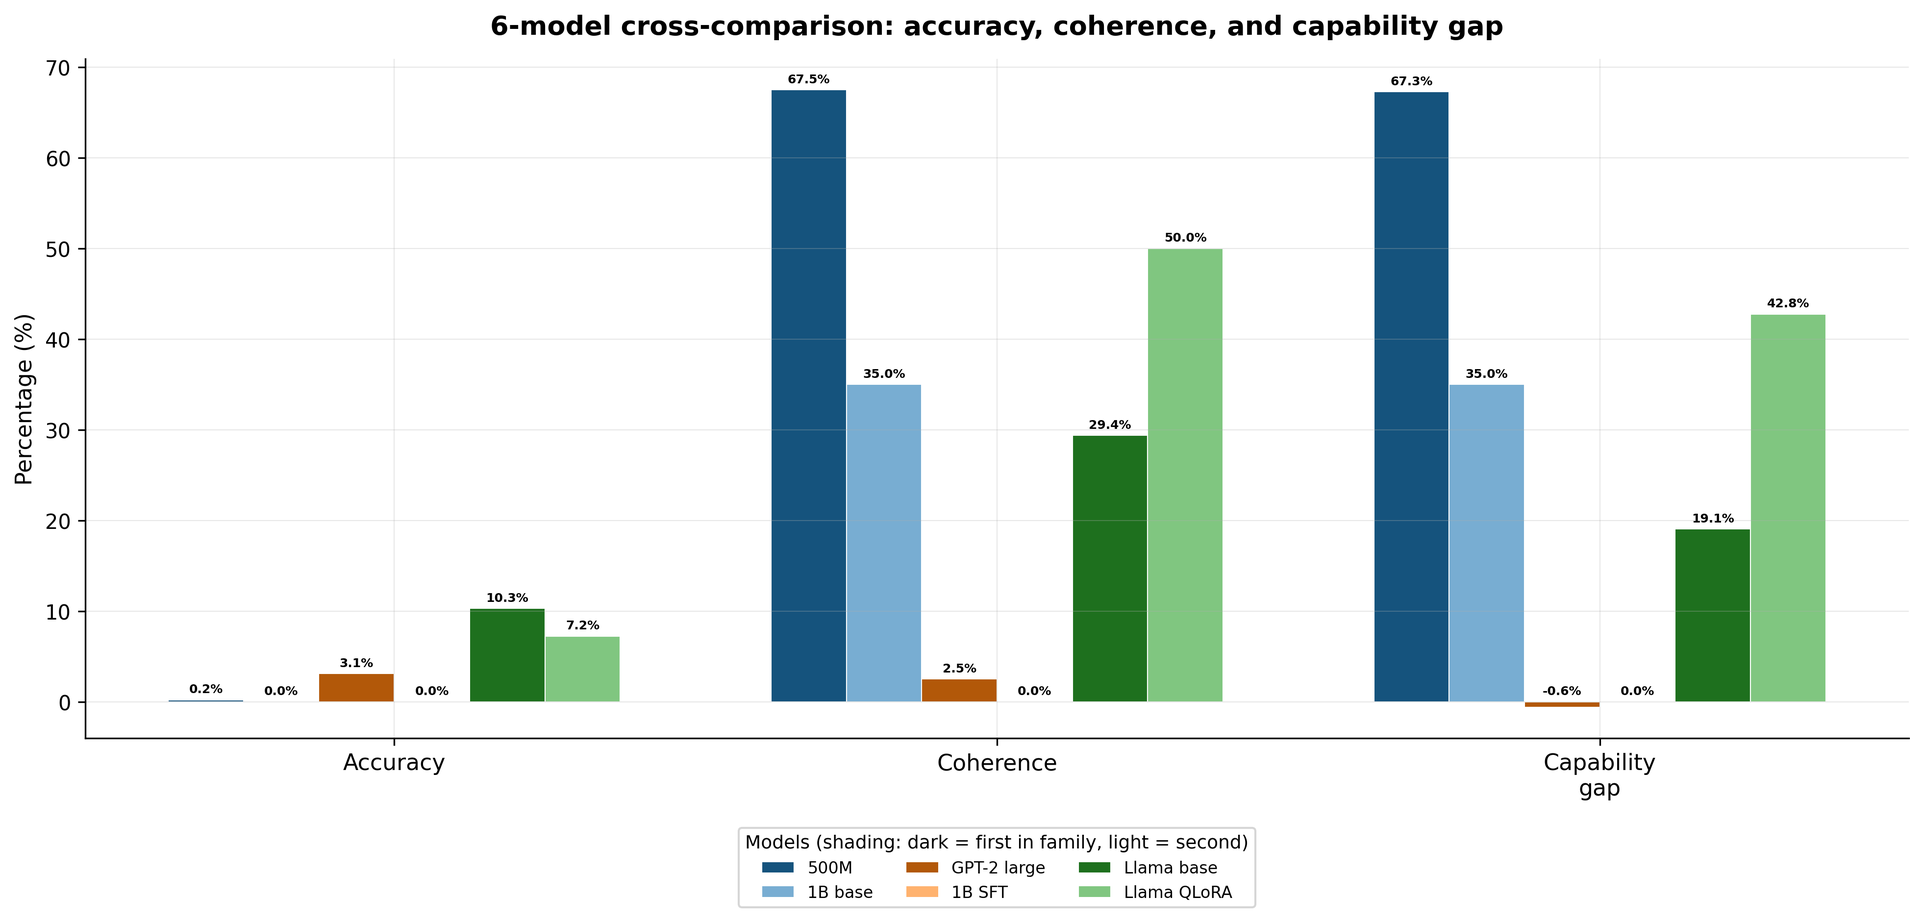
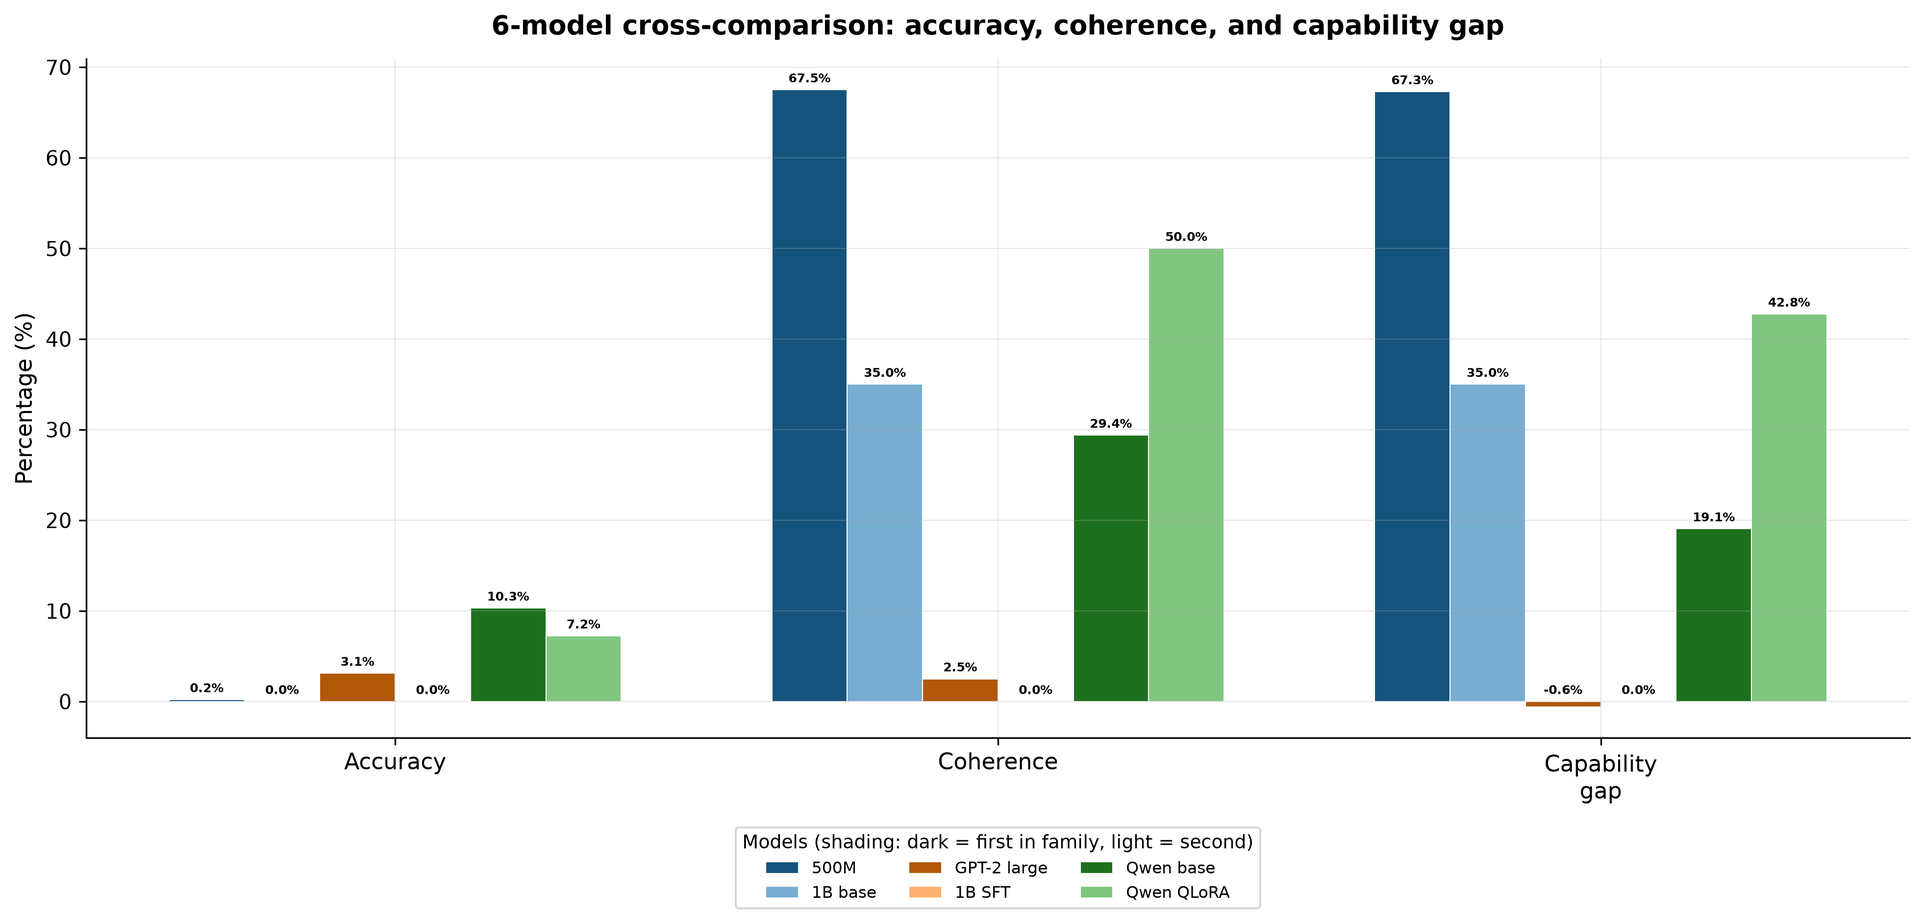
Fix remaining Llama labels, figure, and data-scarcity wording
Regenerate the 6-model figure with Qwen labels, align Table 9 and the
experimental-findings report with the Qwen substitution and Fine-tuned
family label, soften leftover data-scarcity claims, clarify the
fabrication-rate range, and add a legacy-key note to the JSON report.

diff --git a/qlora/compare_all.py b/qlora/compare_all.py
@@ -763,6 +763,11 @@ def build_json_output(
             "model_short_labels": {c["key"]: c["short_label"] for c in model_configs},
             "model_families": {c["key"]: c["family"] for c in model_configs},
             "quantization": "Q8_0",
+            "note": (
+                "Display names refer to Qwen 2.5 1.5B Instruct (substituted for Llama 3.2 1B "
+                "Instruct, which was gated). Keys and result directories keep the legacy "
+                "llama32_* names."
+            ),
         },
         "accuracy": accuracy,
         "taxonomy_distribution": taxonomy,

diff --git a/docs/v2-research-paper.md b/docs/v2-research-paper.md
@@ -23,7 +23,7 @@ The past five years have seen an accelerating trend toward domain-specific langu
 
 We ask a different question. What happens when we dramatically reduce both the breadth and volume of training data, focusing on a single disease domain with a corpus orders of magnitude smaller than what these models consume? Specifically, we train a 516M-parameter decoder-only transformer from scratch on 143M tokens of curated ALS research literature. With roughly 128.5M training tokens, this is about 0.25 tokens per parameter, about 80 times below the Chinchilla reference ratio of approximately 20 tokens per parameter ([Hoffmann et al., 2022](https://arxiv.org/abs/2203.15556)). This is a regime where conventional scaling laws suggest the model is unlikely to acquire meaningful factual knowledge.
 
-This is by design. Our research question is not whether a small model trained on narrow data can compete with larger systems. It cannot, and our results confirm this decisively. Instead, we investigate what such a model does learn, how it fails, and what the failure modes reveal about the relationship between training data volume, language-modeling loss, and factual accuracy. The answer turns out to be more nuanced than simple failure: our model achieves a Well-fit classification with a validation loss relative gap of just +0.42%, indicating that it has learned generalizable statistical patterns of ALS research language, yet it attains only 0.21% mean factual accuracy on a domain-specific benchmark. This disconnect between language-modeling competence and factual knowledge acquisition is itself an informative finding.
+This is by design. Our research question is not whether a small model trained on narrow data can compete with larger systems. It cannot, and our results are consistent with that expectation. Instead, we investigate what such a model does learn, how it fails, and what the failure modes reveal about the relationship between training data volume, language-modeling loss, and factual accuracy. The answer turns out to be more nuanced than simple failure: our model achieves a Well-fit classification with a validation loss relative gap of just +0.42%, indicating that it has learned generalizable statistical patterns of ALS research language, yet it attains only 0.21% mean factual accuracy on a domain-specific benchmark. This disconnect between language-modeling competence and factual knowledge acquisition is itself an informative finding.
 
 We emphasize that this project is a machine-learning research and education artifact, not a medical information tool. The model should never be used for clinical decision-making, patient education, or any application where factual accuracy matters. The hallucination evaluation framework we develop exists to quantify the model's unreliability, not to demonstrate its utility. Any outputs from the model or from the RAG comparison system should be treated as experimental results, not as medical information.
 
@@ -57,7 +57,7 @@ Table 1 summarizes the key characteristics of these models alongside ALS-LM.
 | BioGPT   | 347M       | 15M PubMed abstracts               | GPT-2 medium    | 2022 | State-of-art on PubMedQA, relation extraction    |
 | GatorTron | 8.9B      | 90B+ words (82B clinical)          | BERT-like       | 2022 | Best clinical NLI on MedNLI                      |
 | BioMedLM | 2.7B       | PubMed abstracts + full text       | GPT-2 style     | 2024 | Competitive with larger models on medical QA     |
-| ALS-LM   | 516M       | 143M tokens (ALS only)             | GPT-2 (Pre-LN)  | 2026 | 0.21% accuracy; demonstrates data deficit impact |
+| ALS-LM   | 516M       | 143M tokens (ALS only)             | GPT-2 (Pre-LN)  | 2026 | 0.21% accuracy; consistent with a data deficit |
 | ALS-LM (fine-tuned) | 774M | 146M tokens (ALS fine-tuning) | GPT-2 large | 2026 | 3.12% accuracy; 97.5% degenerate output          |
 
 The scale difference is immediately visible. Even BioBERT, the smallest model in the table, trained on a corpus approximately 125 times larger than ours (18 billion words vs. 143 million tokens). BioGPT, the closest architectural comparison at 347M parameters, used approximately 15 million abstracts that we estimate contain 3-5 billion tokens, placing it 20-35x above our data volume. Unlike these models, which benefit from broad biomedical coverage across many diseases and subdomains, our work deliberately investigates the data-starved regime: a single-disease corpus where the available literature is fundamentally insufficient for the model size. Our results confirm that this data deficit is the dominant factor in the model's near-zero factual accuracy, even as it achieves healthy language-modeling loss.
@@ -115,7 +115,7 @@ Figure 1 shows the end-to-end data pipeline from source collection through token
 - **Deduplication.** We implemented a two-level deduplication approach. At the document level, we used MinHash Locality-Sensitive Hashing (LSH) with 128 permutations and a Jaccard similarity threshold of 0.85, that uses word-level 5-gram shingles. We chose word 5-grams over character shingles because medical text shares high vocabulary overlap (many documents use the same technical terms), and word n-grams reduce false positive duplicate matches in this setting. At the paragraph level, we applied SHA-256 hashing on paragraphs of at least 50 words, removing exact-duplicate text blocks across the surviving corpus. Documents that lost all qualifying paragraphs were rejected. After the train/validation split, we ran a cross-set leakage check by using MinHash LSH with a lower Jaccard threshold of 0.7 to catch near-duplicate documents that might have been placed in both sets.
 - **Source caps.** To prevent any single source type from dominating the corpus distribution, we enforced post-deduplication caps of 10% for patient narratives and 15% for Wikipedia-sourced content.
 - **Train/validation split.** We split the cleaned, deduplicated corpus into training and validation sets by using a 90/10 ratio, stratified by source category, with a fixed random seed of 42. This stratification ensures that both sets contain proportional representation from PubMed Central, ClinicalTrials.gov, and educational sources.
-- **Final corpus size.** The tokenized corpus contains 142,939,320 total tokens: 128,495,047 training tokens and 14,444,273 validation tokens. At 516M model parameters, this yields 0.25 tokens per parameter, placing us 80 times below the Chinchilla-optimal ratio of approximately 20 tokens per parameter ([Hoffmann et al., 2022](https://arxiv.org/abs/2203.15556)).
+- **Final corpus size.** The tokenized corpus contains 142,939,320 total tokens: 128,495,047 training tokens and 14,444,273 validation tokens. At 516M model parameters, this yields 0.25 tokens per parameter, placing the 516M run about 80 times below the Chinchilla reference ratio of approximately 20 tokens per parameter ([Hoffmann et al., 2022](https://arxiv.org/abs/2203.15556)).
 
 ### 3.2 Tokenizer
 
@@ -568,14 +568,14 @@ This work makes three contributions. First, we provide a complete, reproducible,
 
 Table 9 presents the complete comparison across all six models evaluated in this investigation.
 
-**Table 9.** Complete 6-model comparison on the 160-question ALS benchmark (Q8_0 quantization level). No model in the six-model comparison reaches the 14.3% that Llama 3.1 8B achieved without retrieval (a larger model evaluated in the separate RAG comparison). The highest of the six is unmodified Qwen 2.5 1.5B Instruct at 10.31%. The 1B SFT fabrication rate of 0.0% reflects that all 160 outputs were degenerate, so no entities could be checked.
+**Table 9.** Complete 6-model comparison on the 160-question ALS benchmark (Q8_0 quantization level). No model in the six-model comparison reaches the 14.3% that Llama 3.1 8B achieved without retrieval (a larger model evaluated in the separate RAG comparison). The highest of the six is unmodified Qwen 2.5 1.5B Instruct at 10.31%. The 1B SFT fabrication rate of 0.0% reflects that all 160 outputs were degenerate, so no entities could be checked (marked with an asterisk in the table).
 
 | Model              | Approach             | Accuracy | Degenerate rate | Fabrication rate |
 |--------------------|----------------------|:--------:|:---------------:|:----------------:|
 | 500M from-scratch  | From-scratch         |    0.21% |           32.5% |            66.4% |
-| GPT-2 large        | Pretrained fine-tune |    3.12% |           97.5% |            77.0% |
+| GPT-2 large        | Fine-tuned           |    3.12% |           97.5% |            77.0% |
 | 1B base            | From-scratch         |    0.00% |           65.0% |           100.0% |
-| 1B SFT             | From-scratch SFT     |    0.00% |          100.0% |             0.0% |
+| 1B SFT             | Fine-tuned           |    0.00% |          100.0% |            0.0%* |
 | Qwen 2.5 baseline  | Pretrained instruct  |   10.31% |           70.6% |            87.6% |
 | Qwen 2.5 QLoRA     | Pretrained QLoRA     |    7.24% |           50.0% |            81.0% |
 
@@ -589,7 +589,7 @@ The investigation was guided by four hypotheses, three defined in the project's 
 |------------|---------------------------------------|----------|--------------------------------------------------------------------|
 | H1         | Data quality improves accuracy        | Partial  | Corpus expanded to 153M tokens; still far below the reference ratio |
 | H2         | Parameter scaling improves knowledge  | Rejected | 1B: 0.00% vs 500M: 0.21%; consistent with data, not capacity       |
-| H3         | Instruction tuning surfaces knowledge | Rejected | 1B SFT: 160/160 degenerate; cannot format absent knowledge         |
+| H3         | Instruction tuning surfaces knowledge | Rejected | 1B SFT: 160/160 degenerate; no usable output to format         |
 | H4         | Pretrained domain adaptation          | Rejected | QLoRA: 7.24% vs 10.31% baseline; 970 pairs lowered accuracy         |
 
 The hypothesis verdicts are consistent with a data scarcity explanation from different angles, although none of the experiments isolates it. The partial verdict for H1 reflects that expanding the corpus from 32MB to 676MB improved data quality and coverage but did not move the needle on factual accuracy possibly because the expanded corpus (153M tokens) remains far below the threshold where knowledge acquisition begins. H2's rejection is particularly informative: doubling the model's capacity from 516M to 1.02B parameters while training on the same corpus produced no improvement (0.00% vs. 0.21%), which is consistent with the bottleneck being data rather than architecture. H3 and H4 together are consistent with instruction tuning and domain adaptation facing a similar constraint. When the base model lacks factual knowledge (H3, from-scratch 1B), instruction tuning produces degenerate output because there is no knowledge to surface. When the base model has some knowledge (H4, Qwen 2.5 1.5B Instruct at 10.31%), 970 domain-specific pairs did not improve accuracy under QLoRA and lowered it instead, suggesting that meaningful domain adaptation requires substantially more fine-tuning data than was available in this investigation.

diff --git a/reports/experimental-findings.md b/reports/experimental-findings.md
@@ -4,16 +4,18 @@ This document synthesizes the experimental results from ALS-LM-1 (v1.0.0 through
 
 ## 6-model comparison summary
 
-Six model variants were evaluated on the same 160-question ALS hallucination benchmark at Q8_0 quantization. The models span three approach families: from-scratch training, pre-trained fine-tuning, and pre-trained instruction tuning.
+Six model variants were evaluated on the same 160-question ALS hallucination benchmark at Q8_0 quantization. The models span three approach families: from-scratch training, fine-tuning, and pre-trained instruction tuning.
+
+*The 1B instruction-tuned model's 0.0% fabrication rate reflects that all 160 outputs were degenerate, so no entities could be checked. The original plan targeted Llama 3.2 1B Instruct, but gated access was not available, so Qwen 2.5 1.5B Instruct was substituted. Some result directories and JSON keys still use the `llama32_*` names.*
 
 | Model                          | Approach                | Accuracy | Coherence | Capability gap | Fabrication rate |
 |--------------------------------|-------------------------|----------|-----------|----------------|------------------|
 | ALS-LM 500M (from-scratch)    | From-scratch            |    0.21% |     67.5% |          67.3% |            66.4% |
 | ALS-LM 1B (from-scratch base) | From-scratch            |    0.00% |     35.0% |          35.0% |           100.0% |
-| GPT-2 large (fine-tuned)       | Pre-trained fine-tune   |    3.12% |      2.5% |          -0.6% |            77.0% |
-| ALS-LM 1B (instruction-tuned) | Pre-trained fine-tune   |    0.00% |      0.0% |           0.0% |             0.0% |
-| Llama 3.2 1B Instruct (base)  | Pre-trained instruct    |   10.31% |     29.4% |          19.1% |            87.6% |
-| Llama 3.2 1B QLoRA            | Pre-trained instruct    |    7.24% |     50.0% |          42.8% |            81.0% |
+| GPT-2 large (fine-tuned)       | Fine-tuned              |    3.12% |      2.5% |          -0.6% |            77.0% |
+| ALS-LM 1B (instruction-tuned) | Fine-tuned              |    0.00% |      0.0% |           0.0% |            0.0%* |
+| Qwen 2.5 1.5B Instruct (base) | Pre-trained instruct    |   10.31% |     29.4% |          19.1% |            87.6% |
+| Qwen 2.5 1.5B QLoRA           | Pre-trained instruct    |    7.24% |     50.0% |          42.8% |            81.0% |
 
 Full data: [6-model comparison report](qlora_comparison_report.md) and [qlora_comparison_report.json](qlora_comparison_report.json)
 
@@ -21,7 +23,7 @@ Full data: [6-model comparison report](qlora_comparison_report.md) and [qlora_co
 
 ### 1. Knowledge source is the primary factor
 
-The unmodified Llama 3.2 1B Instruct model achieved the highest accuracy (10.31%) without any ALS-specific training. Its pre-trained parametric knowledge from large-scale general and biomedical corpora outperformed every from-scratch model regardless of size or post-training. This confirms that for domain-specific tasks with limited training data, the knowledge embedded during pre-training matters more than model size or fine-tuning approach.
+The unmodified Qwen 2.5 1.5B Instruct model achieved the highest accuracy (10.31%) without any ALS-specific training. Its pre-trained parametric knowledge from large-scale general and biomedical corpora outperformed every from-scratch model regardless of size or post-training. This is consistent with pre-trained knowledge mattering more than model size or fine-tuning approach for domain-specific tasks with limited training data, though a single model per family does not establish it.
 
 ### 2. Domain fine-tuning with limited data is a double-edged sword
 
@@ -31,9 +33,9 @@ QLoRA domain adaptation on 970 ALS instruction pairs shifted the model's behavio
 
 Instruction tuning the from-scratch 1B model produced 160/160 degenerate responses (0% accuracy, 0% coherence). The model collapsed to repeating "TheTheThe..." for every input. SFT is designed to format existing knowledge into structured responses, not to inject knowledge that was never learned during pre-training. This rejected Hypothesis 3 from the v2 white paper. Full analysis: [SFT failure analysis](sft_failure_analysis.md)
 
-### 4. From-scratch training on 153M tokens is insufficient for factual knowledge
+### 4. From-scratch training on about 143M tokens did not yield factual knowledge
 
-Both from-scratch models (500M and 1B) achieved near-zero accuracy despite training on the full ALS corpus. They learned statistical patterns in ALS text (producing coherent-sounding domain language) but did not internalize extractable medical facts. Scaling from 500M to 1B parameters did not help — the bottleneck is data, not model capacity.
+Both from-scratch models (500M and 1B) achieved near-zero accuracy despite training on the full ALS corpus. They learned statistical patterns in ALS text (producing coherent-sounding domain language) but did not internalize extractable medical facts. Scaling from 500M to 1B parameters did not help, which is consistent with data being the bottleneck rather than model capacity. We did not vary data volume, so this remains a hypothesis.
 
 ### 5. Capability gap is the primary safety concern
 
@@ -73,7 +75,7 @@ These reports contain the detailed data behind the findings above.
 - [6-model comparison data](qlora_comparison_report.json) — Machine-readable metrics for all models
 - [SFT failure analysis](sft_failure_analysis.md) — Root cause analysis of instruction tuning collapse on the from-scratch 1B model
 - [4-model comparison report](model_comparison_report.md) — Earlier comparison of from-scratch and GPT-2 fine-tuned models
-- [Ablation baseline report](eval/alslm-1b-base/) — Evaluation of unmodified Llama 3.2 1B Instruct as pre-fine-tuning baseline
+- [Ablation baseline report](eval/alslm-1b-base/) — Evaluation of unmodified Qwen 2.5 1.5B Instruct as pre-fine-tuning baseline
 
 ---
 

diff --git a/README.md b/README.md
@@ -12,7 +12,7 @@ ALS-LM is a completed research investigation into domain-specific language model
 
 ## Key findings
 
-The central result across 6 model variants is that knowledge source matters most: a model's pre-trained parametric knowledge determines its ALS accuracy floor, and small-scale domain fine-tuning cannot reliably improve on it. The unmodified Qwen 2.5 1.5B Instruct model achieves 10.31% mean key-fact accuracy on the 160-question benchmark without any ALS-specific training. This is the highest result in the six-model comparison, ahead of QLoRA domain adaptation on 970 ALS instruction pairs (7.24%), which lowered accuracy by 3.07 percentage points. From-scratch models trained on 143M ALS tokens achieve near-zero accuracy regardless of model size, which is consistent with a severe data deficit.
+The central result across 6 model variants is that knowledge source matters most: a model's pre-trained parametric knowledge determines its ALS accuracy floor, and small-scale domain fine-tuning cannot reliably improve on it. The unmodified Qwen 2.5 1.5B Instruct model achieves 10.31% mean key-fact accuracy on the 160-question benchmark without any ALS-specific training. This is the highest result in the six-model comparison, ahead of QLoRA domain adaptation on 970 ALS instruction pairs (7.24%), which lowered accuracy by 3.07 percentage points. From-scratch models trained on a 143M-token ALS corpus (128.5M training tokens) achieve near-zero accuracy regardless of model size, which is consistent with a severe data deficit.
 
 The Qwen experiments were added after the original v2 plan. The instruction-tuned ALS-LM 1B checkpoint (trained from scratch, then instruction-tuned) produced degenerate responses on all 160 benchmark questions, so the project added a QLoRA experiment on a pretrained instruct model. The original plan targeted Llama 3.2 1B Instruct, but gated access was not available, so Qwen 2.5 1.5B Instruct was used instead. The v1 investigation and the original v2 research plan are preserved as historical records.
 
@@ -116,7 +116,7 @@ The following table compares all 6 model variants on the 160-question ALS benchm
 
 The unmodified Qwen 2.5 1.5B Instruct model achieves the highest mean key-fact accuracy in this six-model comparison (10.31%) without any ALS-specific training, which is consistent with pre-trained parametric knowledge mattering more than model size or training approach. QLoRA domain adaptation on 970 ALS instruction pairs reduced accuracy by 3.07 percentage points while raising the share of non-degenerate responses from 29.4% to 50.0%, widening the perceived capability gap. Llama 3.1 8B without retrieval (14.3%) scored higher, but it is a larger model evaluated in the separate RAG comparison and is not one of the six. See the [full 6-model comparison report](reports/qlora_comparison_report.md) for failure taxonomy analysis and implications.
 
-![6-model comparison grouped bar chart showing accuracy, coherence, and capability gap across from-scratch, pre-trained fine-tune, and pre-trained instruct families](docs/figures/qlora_comparison.png)
+![6-model comparison grouped bar chart showing accuracy, coherence, and capability gap across from-scratch, fine-tuned, and pre-trained instruct families](docs/figures/qlora_comparison.png)
 
 ## Getting started
 
@@ -210,7 +210,7 @@ ALS-LM is a machine-learning research project. It is **not** a diagnostic tool, 
 
 ### On hallucinations and medical safety
 
-Among the 6 model variants, fabrication rates range from 66.4% (from-scratch 500M) to 87.6% (unmodified Qwen 2.5 baseline) for models that produced mostly or partly readable output. The from-scratch 1B base model flagged every entity it extracted (100.0%), and the instruction-tuned 1B model's 0.0% entry only reflects that all 160 of its outputs were degenerate, so there was nothing to check. The QLoRA domain-adapted model fabricates at 81.0% while producing coherent output 50.0% of the time, making it the most deceptive variant—it sounds plausible more often while remaining factually unreliable. In a medical context, all models represent a potential harm. This project treats hallucination measurement as a primary research question, not a side effect to be minimized.
+Among the 6 model variants, fabrication rates range from 66.4% (from-scratch 500M) to 87.6% (unmodified Qwen 2.5 baseline) computed over entities extracted from non-degenerate responses. Two entries fall outside that range: the from-scratch 1B base model flagged every entity it extracted (100.0%), and the instruction-tuned 1B model's 0.0% entry only reflects that all 160 of its outputs were degenerate, so there was nothing to check. The QLoRA domain-adapted model fabricates at 81.0% while producing coherent output 50.0% of the time, making it the most deceptive variant—it sounds plausible more often while remaining factually unreliable. In a medical context, all models represent a potential harm. This project treats hallucination measurement as a primary research question, not a side effect to be minimized.
 
 All model outputs should be treated as experimental results, not as medical information.
 
